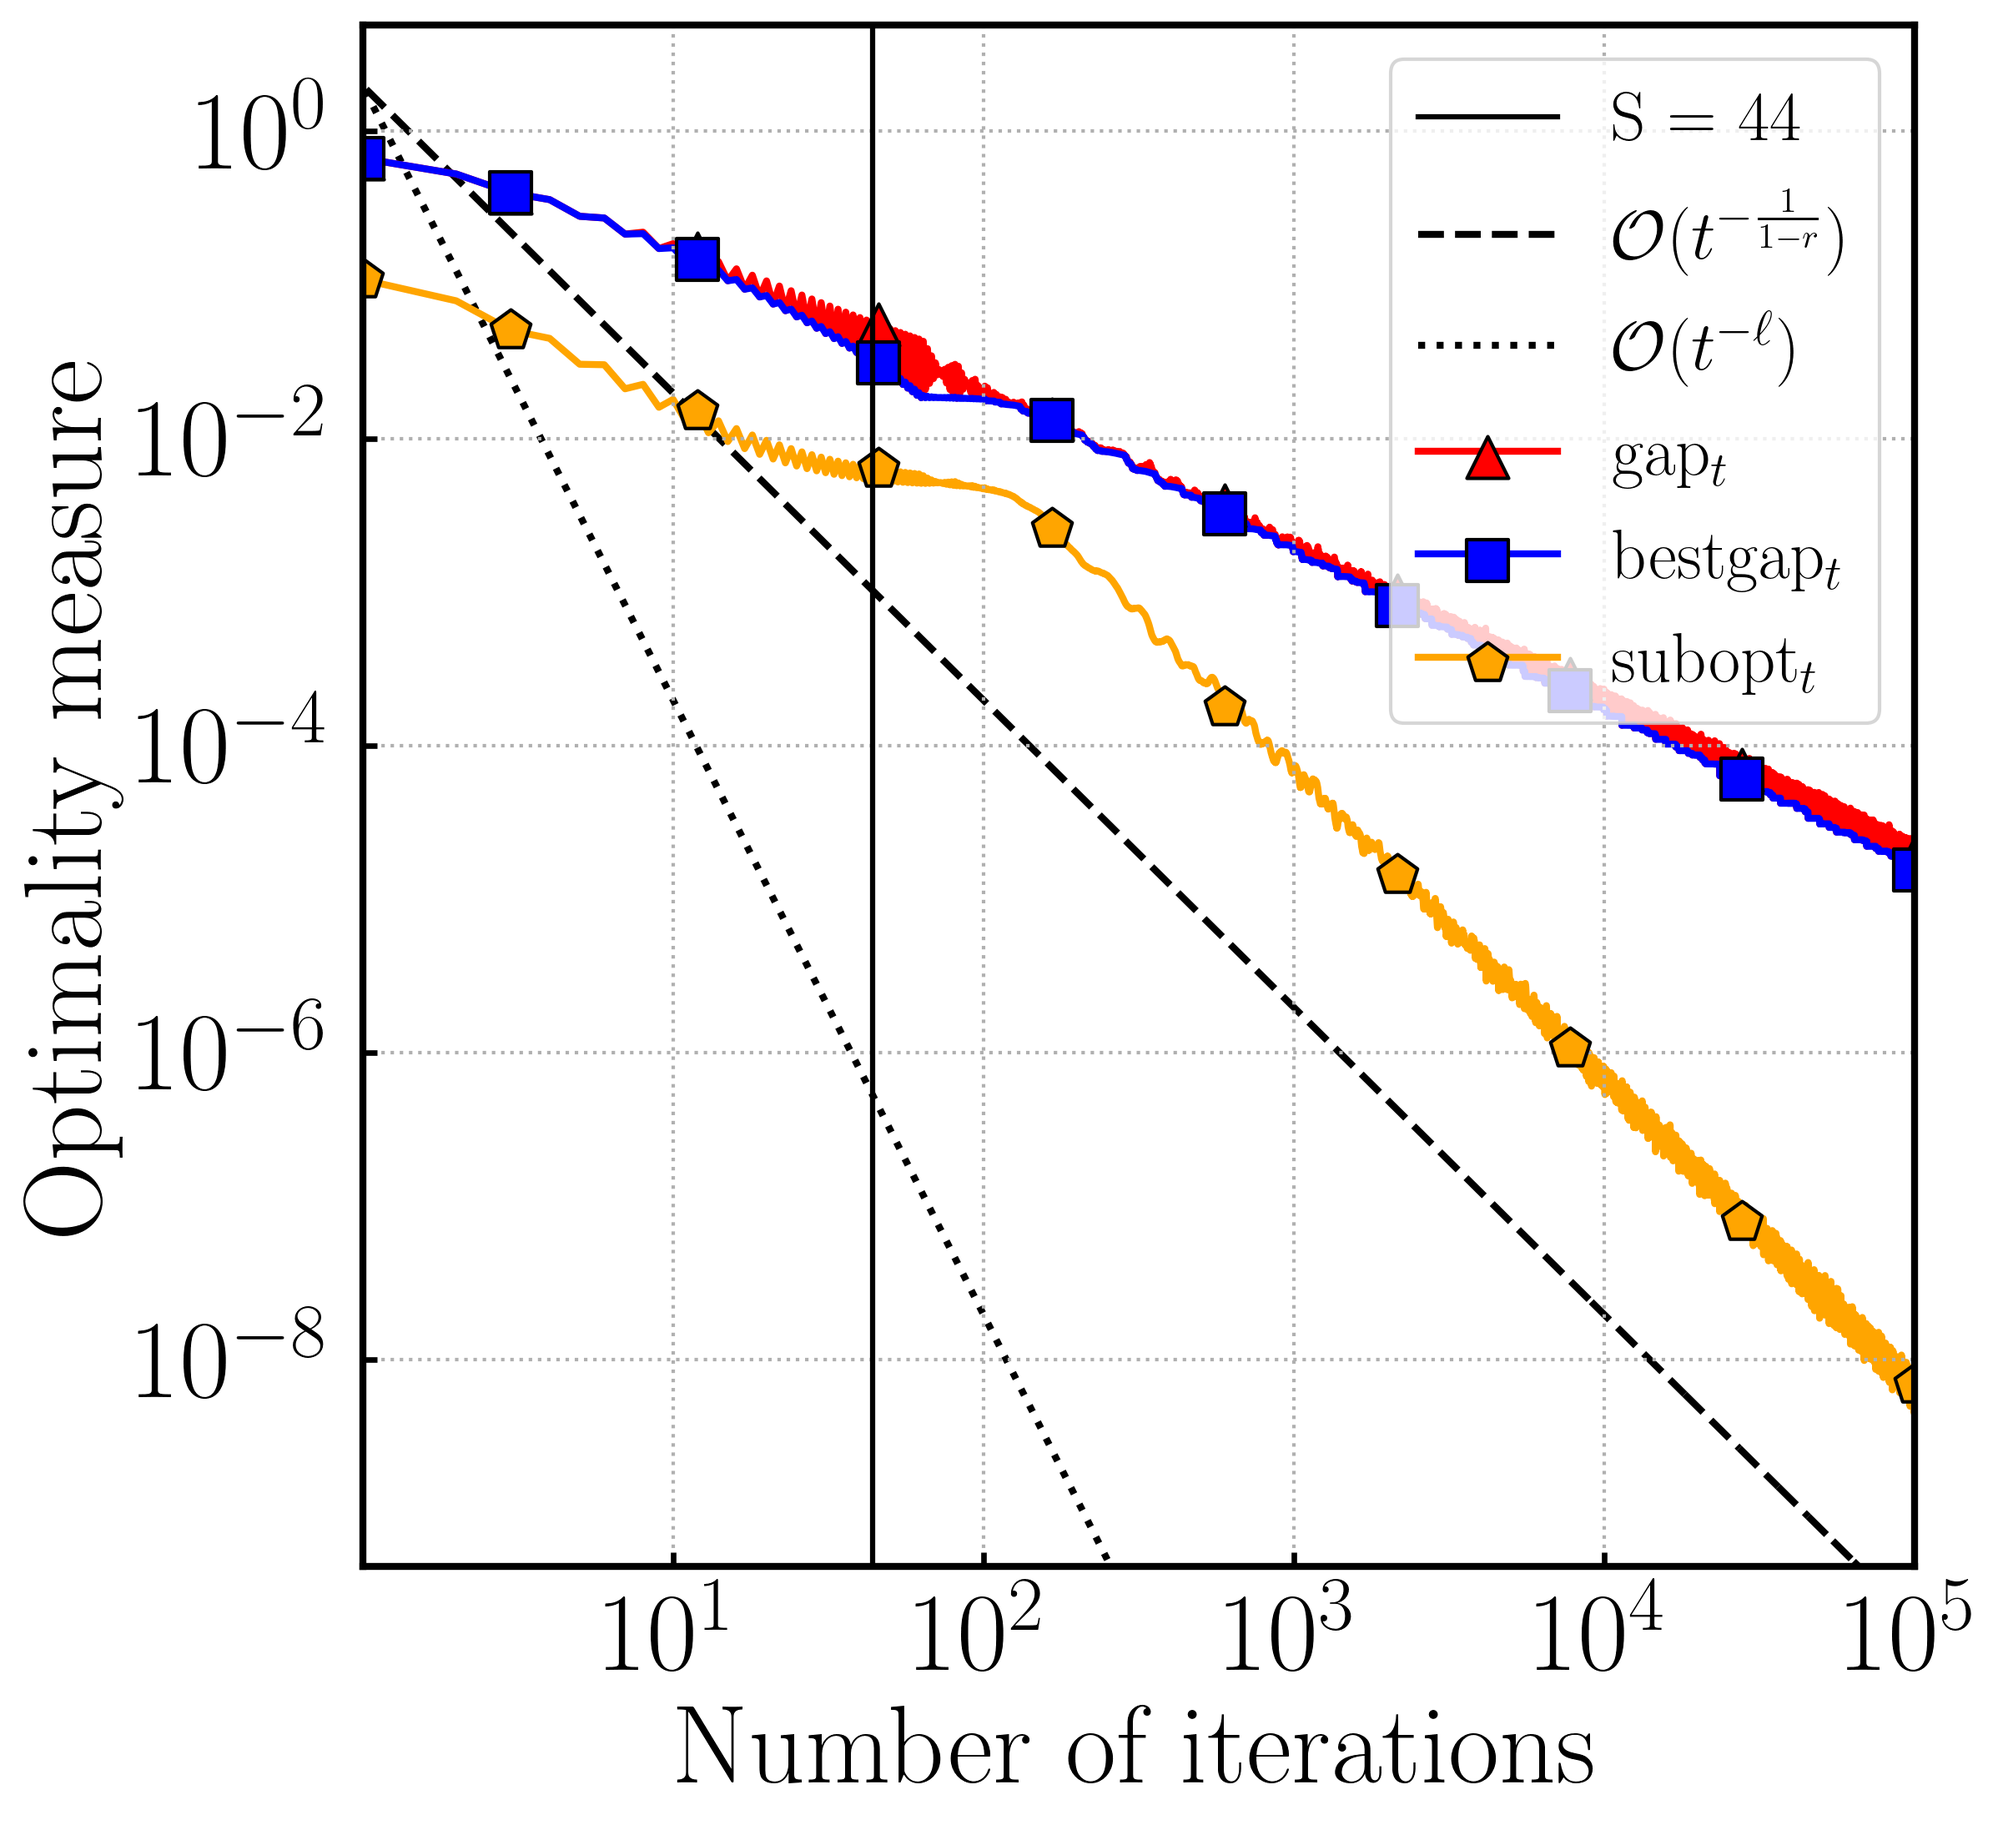
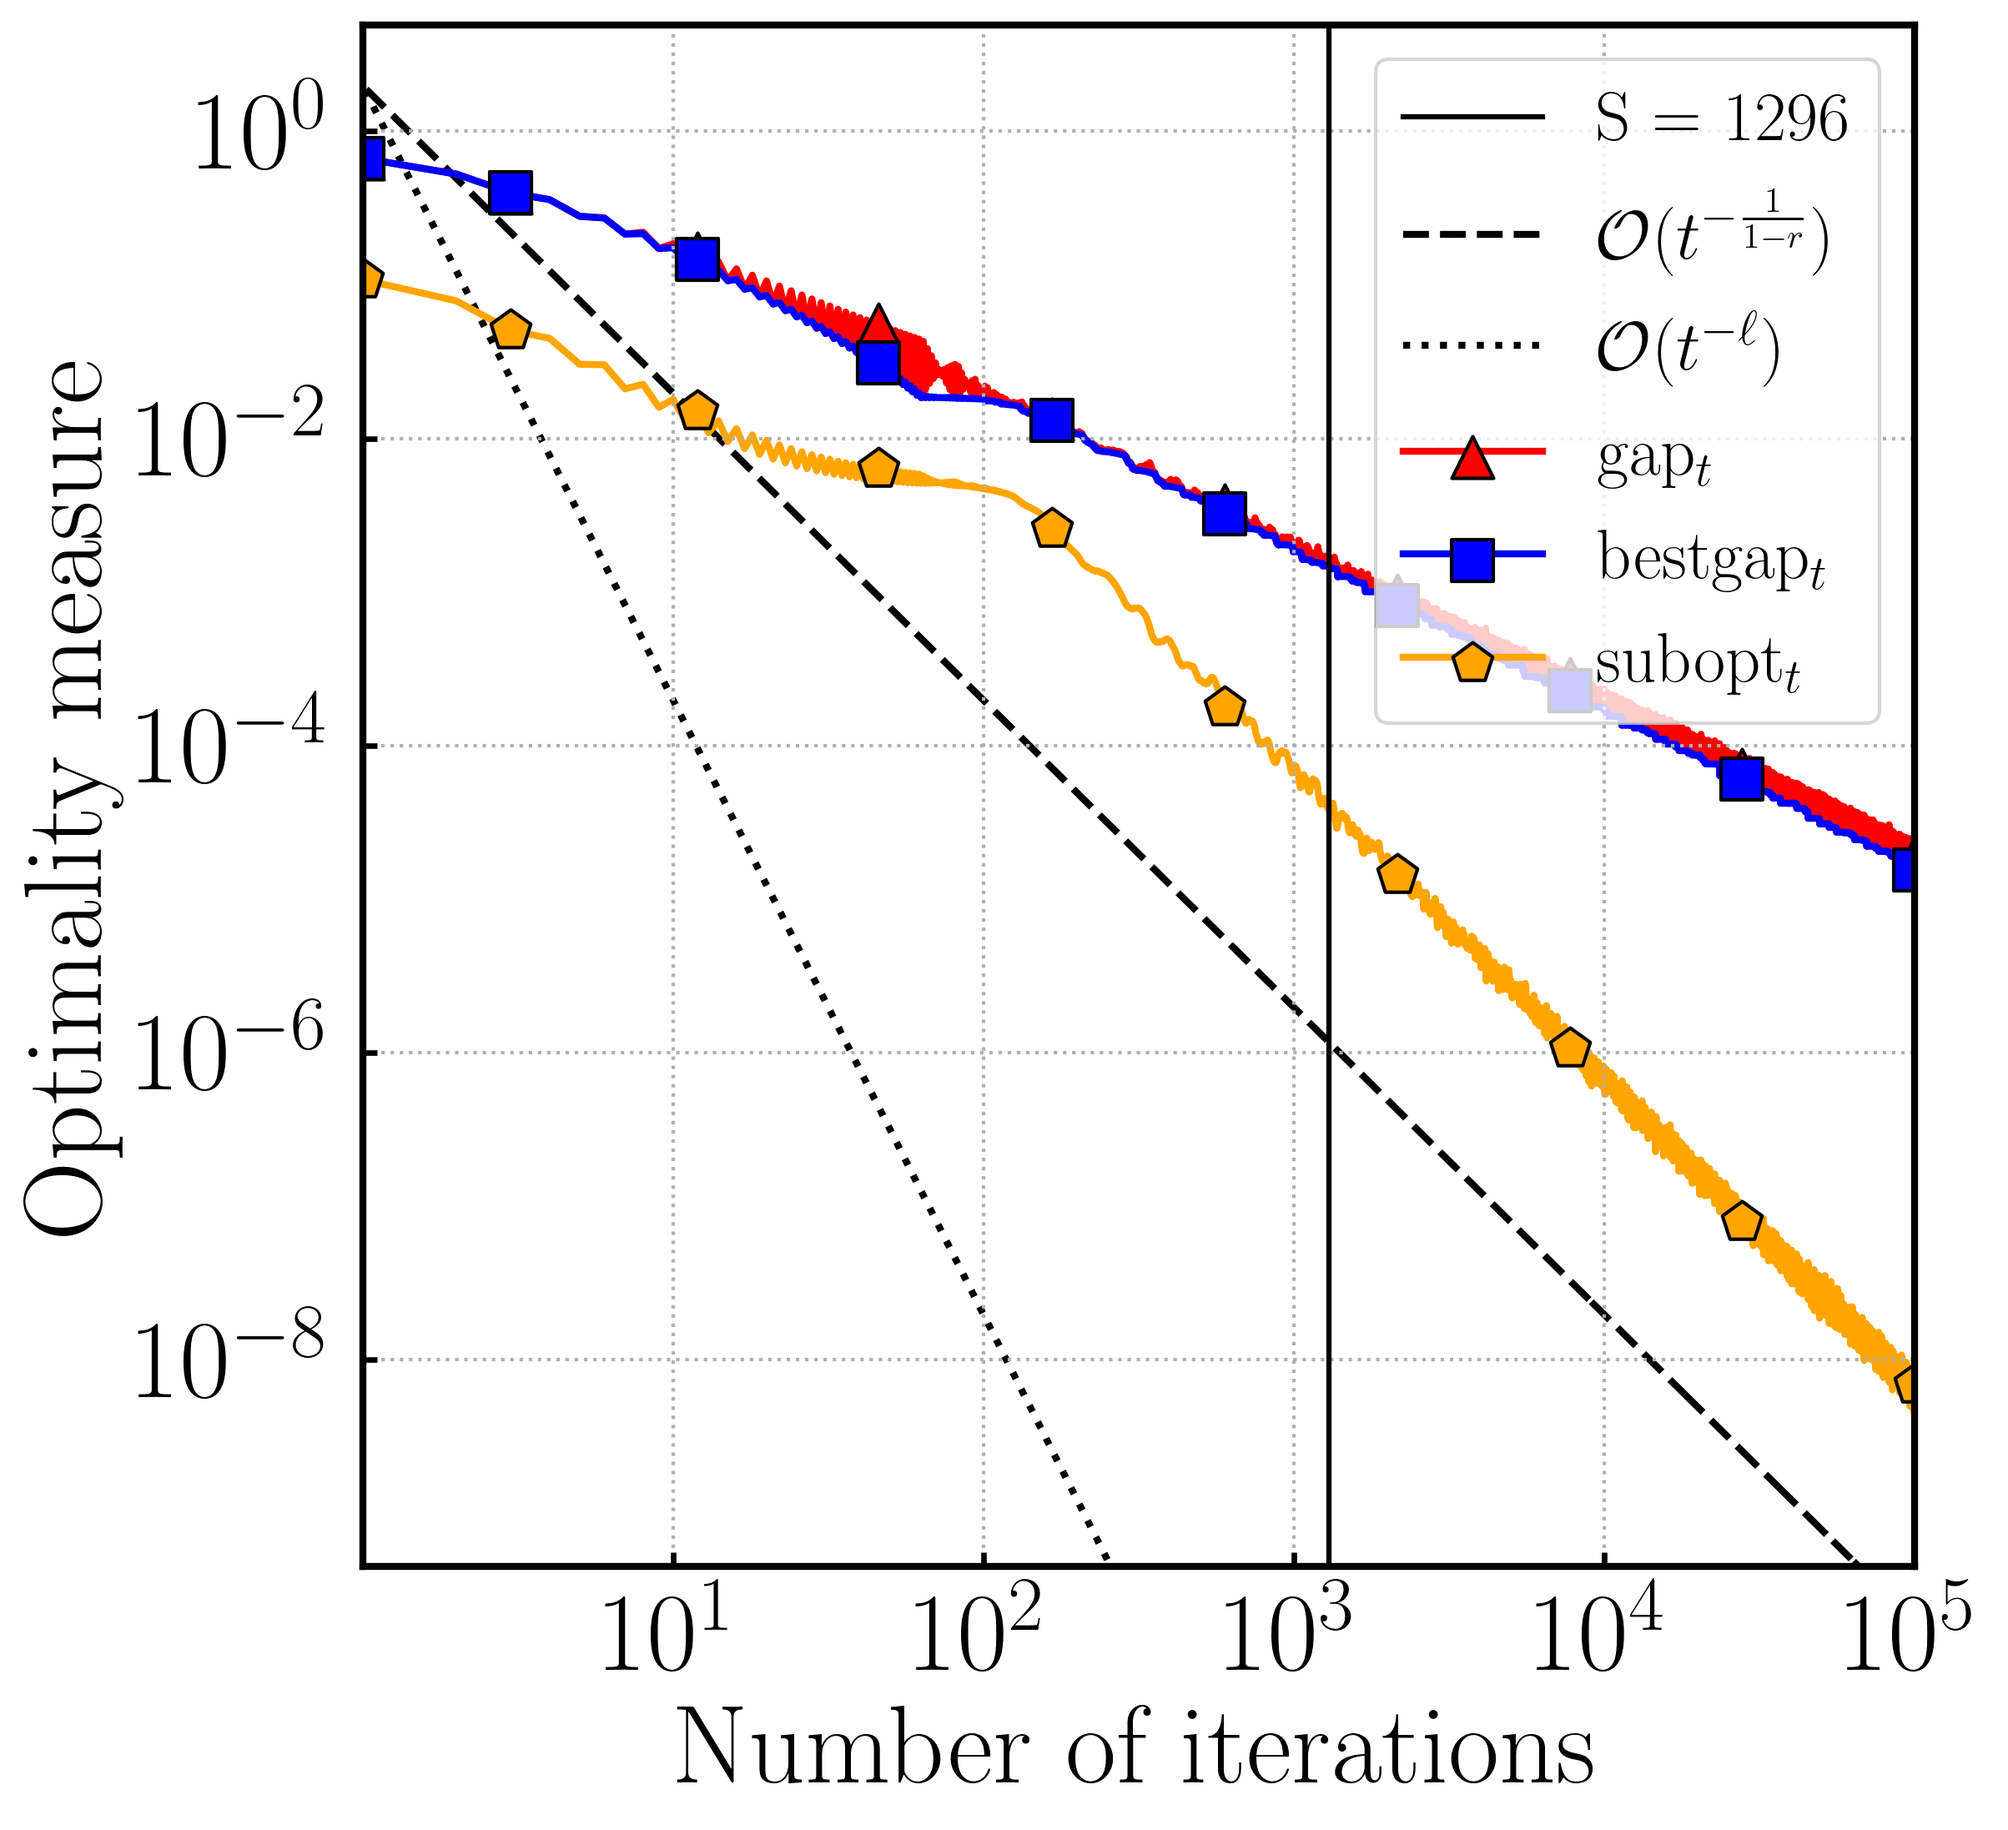
.

diff --git a/experiments/polytope.py b/experiments/polytope.py
@@ -1,6 +1,6 @@
 import random
 import autograd.numpy as np
-from src.feasible_region import lpnorm, ProbabilitySimplex
+from src.feasible_region import lpnorm, ProbabilitySimplex, LpBall
 from src.objective_function import SquaredLoss
 from src.plotting import gap_plotter, determine_y_lims
 from src.experiments_auxiliary_functions import run_experiment, create_reference_lines_automatically
@@ -16,27 +16,37 @@ mpl.rcParams['axes.linewidth'] = LINEWIDTH
 
 rhos = [0.05, 0.1, 0.25]
 l = 4
-L_tilde = 1
-mu_tilde = np.sqrt(2)
-theta = 1 / 2
-# rough upper bound
-diameter = 2
-L = L_tilde * diameter
-B = np.sqrt(2) * diameter
 for rho in rhos:
-    mu = mu_tilde**2 * rho**2
-    R = max(0, l/2 * float(np.sqrt(8*(L+B)/mu)))
-    A = np.identity(DIMENSION)
-    y = np.random.random((DIMENSION, 1))
     y = np.zeros((DIMENSION, 1))
     y[0] = 1
     random_perturbation = np.abs(np.random.random((DIMENSION, 1)))
     random_perturbation[int(DIMENSION / 2):] = 0
     random_perturbation = random_perturbation / lpnorm(random_perturbation, 1)
-    y = (1-rho) * y + rho * random_perturbation
+    y = (1 - rho) * y + rho * random_perturbation
+    offset = np.abs(np.random.random((DIMENSION, 1)))
+    offset[int(DIMENSION / 2):] = 0
+    offset = offset / lpnorm(offset, 1)
+    y = y + offset
+    y = 2 * y / lpnorm(y, 1)
+    L = 1.
+    mu = np.sqrt(2) / np.sqrt(DIMENSION)
+    theta = 1 / 2
+    r = theta
+    # todo: check whether r = theta?
+    m = rho /(4*mu)
+    R = 0
+    eta_R = l/(R+l)
+    B = 6
+    M = max(m*((2*B)/(eta_R))**(1-theta), (L+B)/(eta_R**2))
+
+    M_0 = 4 * L
+
+    M = max(M, M_0)
+
+    A = np.identity(DIMENSION)
 
     objective_function = SquaredLoss(A=A, b=y)
-    feasible_region = ProbabilitySimplex(dimension=DIMENSION)
+    feasible_region = LpBall(dimension=DIMENSION, p=1)
 
     fw_step_size_rules = [{"step type": "open-loop", "a": l, "b": 1, "c": l, "d": 1}]
     primal_gaps, dual_gaps, best_gaps, _ = run_experiment(ITERATIONS, objective_function, feasible_region,
@@ -47,9 +57,17 @@ for rho in rhos:
     labels = ["gap" + r'$_t$', "bestgap" + r'$_t$', "subopt" + r'$_t$']
     gap_0 = dual_gaps[0][0]
     gaps, labels, styles, colors, markers = create_reference_lines_automatically(gaps, labels, 1, l, gap_0)
-    file_name = ("polytope_growth" +  "_probability_simplex" + "_rho=" + str(rho) + "_l=" + str(l))
+    file_name = ("polytope_growth" +  "l1_ball_" + "_rho=" + str(rho) + "_l=" + str(l))
 
-    S = int(max(1, 2*R/l * np.sqrt(8*(L+B)/mu)))
+    k = min(1 / (1 - r), 2)
+    S = 1
+    eta_S = l / (S + l)
+    val = eta_S*eta_R - eta_S**k*(1+2/M *(9*M/(2*m))**(1/(1-theta)))
+    while val < 0:
+        S += 1
+        eta_S = l / (S + l)
+        val = eta_S * eta_R - eta_S ** k * (1 + 2 / M * (9 * M / (2 * m)) ** (1 / (1 - theta)))
+
     S_label = "S = " + str(S)
     lines = [(S, S_label)]
 

diff --git a/experiments/gaps_growth.py b/experiments/gaps_growth.py
@@ -49,14 +49,15 @@ for rho in rhos:
 
         # compute S
         # TODO: Get explicit formula for S at some point
-        exponent = min(1 / (1 - r), 2)
+        k = min(1 / (1 - r), 2)
         S = 1
         eta_S = l / (S+l)
-        val = M_0*(l**2)*eta_S/24 - ((M_0 / m) * eta_S)**exponent
+        val = eta_S - eta_S**k*(1+2/M_0 *(9*M_0/(2*m))**(1/(1-r)))
         while val < 0:
             S += 1
             eta_S = l / (S + l)
-            val = M_0 * l ** 2 * eta_S / 24 - ((M_0 / m) * eta_S) ** exponent
+            val = eta_S - eta_S**k*(1+2/M_0 *(9*M_0/(2*m))**(1/(1-r)))
+
 
         S_label = "S = " + str(S)
         lines = [(S, S_label)]
